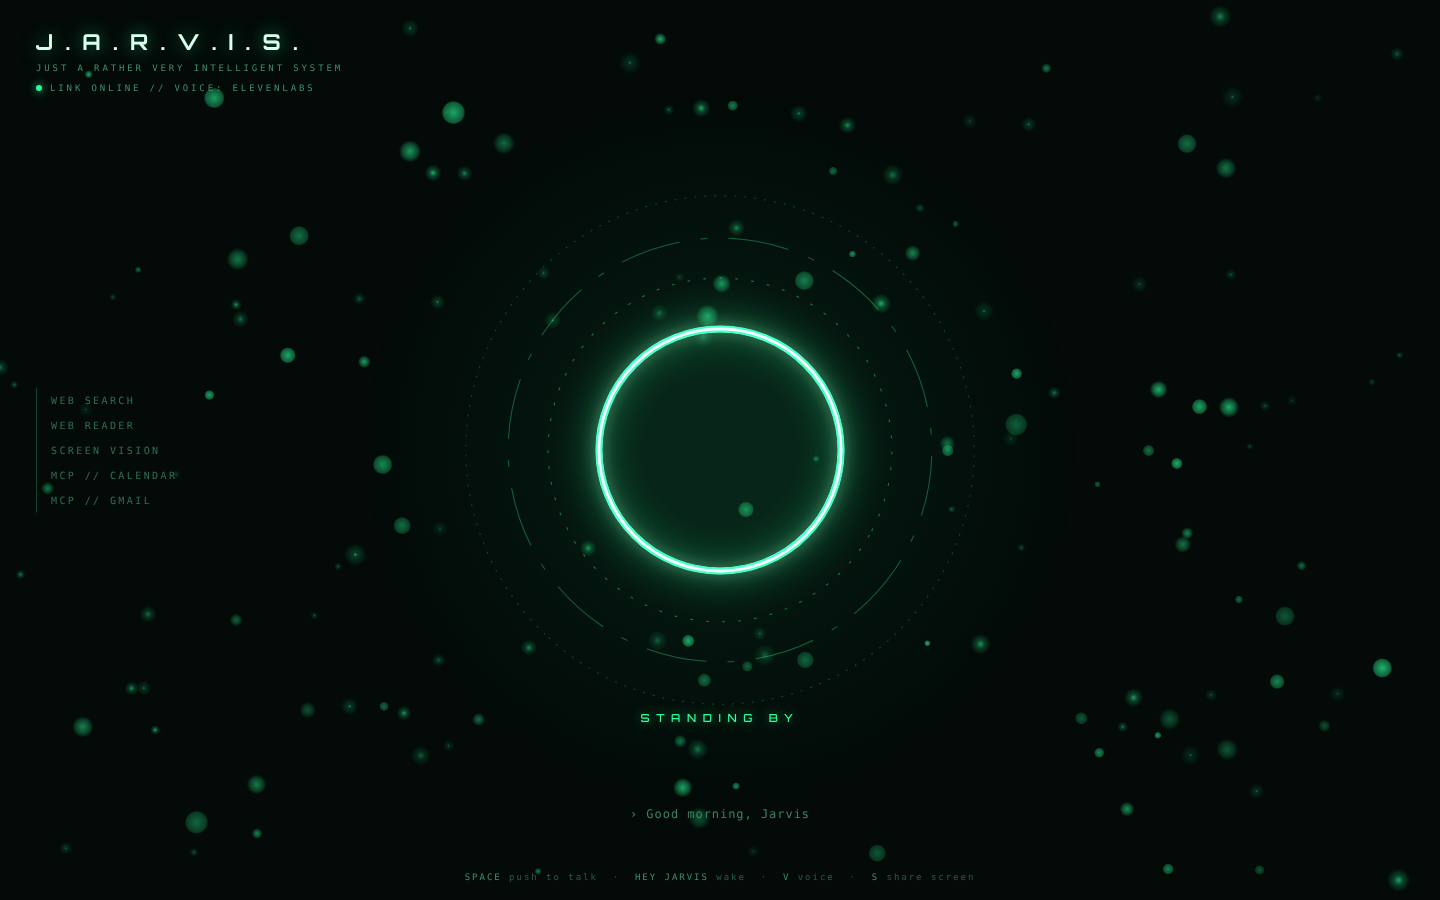
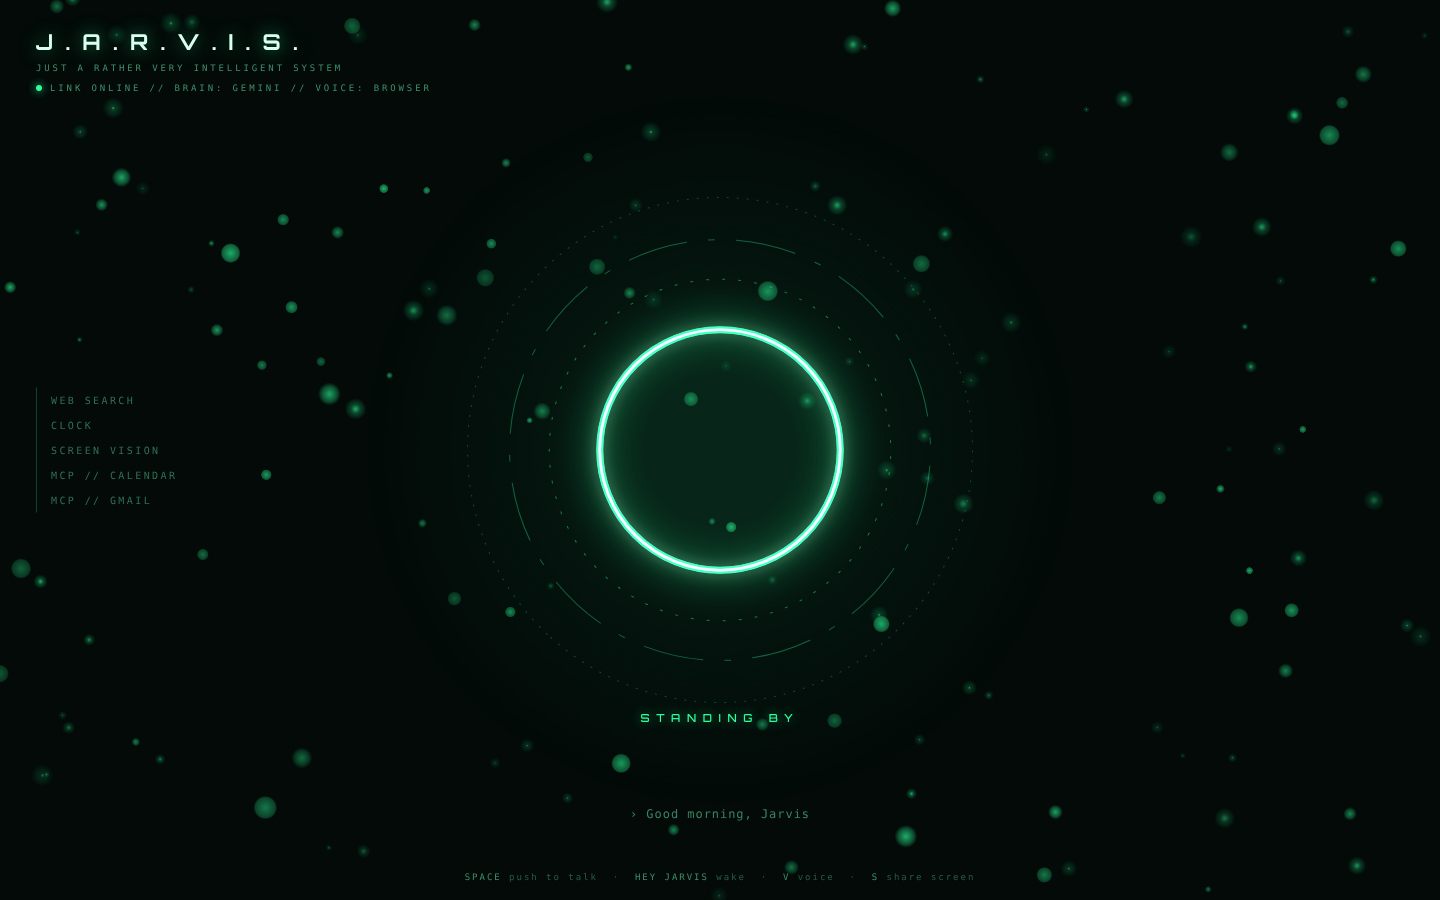
Document Gemini setup and provider switching; show active provider in HUD
Claude-Session: https://claude.ai/code/session_01FvGFuA4YvXKWYU1wFDX3Hn

diff --git a/src/hud.ts b/src/hud.ts
@@ -35,7 +35,8 @@ export function mountHud(): void {
   const render = () => {
     document.body.dataset.state = store.state;
     $('state').textContent = STATE_LABEL[store.state];
-    $('link').textContent = store.online ? (store.elevenlabs ? 'LINK ONLINE // VOICE: ELEVENLABS' : 'LINK ONLINE // VOICE: BROWSER') : 'LINK OFFLINE';
+    const brain = store.provider ? ` // BRAIN: ${store.provider.toUpperCase()}` : '';
+    $('link').textContent = store.online ? `LINK ONLINE${brain} // VOICE: ${store.elevenlabs ? 'ELEVENLABS' : 'BROWSER'}` : 'LINK OFFLINE';
     document.querySelector('.link')!.classList.toggle('on', store.online);
     $('notice').textContent = store.notice;
     $('q').textContent = store.question ? `› ${store.question}` : '';

diff --git a/src/main.ts b/src/main.ts
@@ -11,7 +11,7 @@ const demo = params.get('demo');
 
 if (demo) {
   const state = (['idle', 'listening', 'thinking', 'speaking'].includes(demo) ? demo : 'idle') as JState;
-  set({ state, online: true, tools: ['calendar', 'gmail'], elevenlabs: true });
+  set({ state, online: true, provider: 'gemini', tools: ['calendar', 'gmail'], elevenlabs: false });
   if (state === 'speaking') {
     // Fake an audio envelope so the ring pulses.
     setInterval(() => { (window as any).__level = 0.35 + 0.35 * Math.abs(Math.sin(Date.now() / 140)); }, 30);

diff --git a/src/controller.ts b/src/controller.ts
@@ -88,7 +88,7 @@ export class Controller {
   private onServer(m: ServerMsg): void {
     switch (m.type) {
       case 'hello':
-        set({ tools: m.tools, elevenlabs: this.tts.elevenlabs || m.elevenlabs });
+        set({ tools: m.tools, provider: m.provider ?? '', elevenlabs: this.tts.elevenlabs || m.elevenlabs });
         break;
       case 'text':
         set({ answer: store.answer + m.delta });

diff --git a/src/state.ts b/src/state.ts
@@ -21,6 +21,7 @@ export interface Store {
   activeTool: string;
   elevenlabs: boolean;
   online: boolean;
+  provider: string;
   screenShared: boolean;
   notice: string;
   calendar: CalendarPanelData | null;
@@ -35,6 +36,7 @@ export const store: Store = {
   activeTool: '',
   elevenlabs: false,
   online: false,
+  provider: '',
   screenShared: false,
   notice: '',
   calendar: null,

diff --git a/src/bridge.ts b/src/bridge.ts
@@ -1,7 +1,7 @@
 import type { CalendarPanelData } from './state';
 
 export type ServerMsg =
-  | { type: 'hello'; elevenlabs: boolean; tools: string[] }
+  | { type: 'hello'; elevenlabs: boolean; tools: string[]; provider?: string }
   | { type: 'text'; delta: string }
   | { type: 'panel'; panel: string; data: CalendarPanelData }
   | { type: 'tool'; name: string }

diff --git a/README.md b/README.md
@@ -2,14 +2,15 @@
 
 A personal voice assistant that runs in your browser: a dry British butler with a glowing HUD, wake word, calendar, web search and screen vision.
 
-- **Brain:** Claude via the [Claude Agent SDK](https://www.npmjs.com/package/@anthropic-ai/claude-agent-sdk), plus any MCP servers in your `~/.claude.json`
-- **Voice out:** ElevenLabs (falls back to your browser's built-in voices)
+- **Brain:** Google Gemini by default (works with a **free** `GEMINI_API_KEY`), or Claude via the Claude Agent SDK as an optional provider. Tools come from any MCP servers you configure
+- **Voice out:** your browser's built-in voices (free), or ElevenLabs if you add a key
 - **Voice in:** Web Speech API (use **Chrome or Edge**; Firefox has no speech recognition)
 - **Bridge:** a small Node server on `127.0.0.1` that keeps your keys off the web page
 
 ```
-browser (Vite, :5173) --WebSocket/HTTP--> bridge (127.0.0.1:8787) --> Claude Agent SDK --> MCP tools
-                                                         `--> ElevenLabs (key stays server-side)
+browser (Vite, :5173) --WebSocket/HTTP--> bridge (127.0.0.1:8787) --> LLM provider (Gemini | Claude)
+                                                         |--> MCP servers (bridge-side MCP client)
+                                                         `--> ElevenLabs (optional; keys stay server-side)
 ```
 
 ## 1. Install
@@ -18,7 +19,7 @@ Requires Node 20 or newer.
 
 ```bash
 npm install
-cp .env.example .env      # then fill it in
+cp .env.example .env      # then add GEMINI_API_KEY (see "Free setup with Gemini")
 npm run dev               # starts the bridge and the web app
 ```
 
@@ -28,11 +29,14 @@ Open <http://127.0.0.1:5173> in Chrome or Edge and allow the microphone.
 
 | Variable | Purpose |
 | --- | --- |
-| `ANTHROPIC_API_KEY` | Lets the Agent SDK call Claude |
+| `LLM_PROVIDER` | `gemini` (default) or `anthropic` |
+| `LLM_MODEL` | Optional model override. Default for Gemini: `gemini-3.8-flash` |
+| `GEMINI_API_KEY` | Required for `gemini`. Free key from <https://aistudio.google.com/apikey> |
+| `GEMINI_SEARCH_MODEL` | Optional. Model for the grounded `web_search` call. Default `gemini-2.5-flash` |
+| `ANTHROPIC_API_KEY` | Required only for `anthropic` |
 | `ELEVENLABS_API_KEY` | Optional. Without it Jarvis uses a browser voice |
 | `JARVIS_VOICE_ID` | Optional. Which ElevenLabs voice to use |
 | `BRIDGE_PORT` | Optional. Default `8787` |
-| `JARVIS_MODEL` | Optional. Override the Claude model |
 
 The bridge reads `.env` once at boot, so **restart it after editing**.
 
@@ -40,17 +44,47 @@ The bridge reads `.env` once at boot, so **restart it after editing**.
 
 | Say | What happens |
 | --- | --- |
-| "Hey Jarvis" (then your request) | Wake word. The ring switches to *listening*, then your words go to Claude |
+| "Hey Jarvis" (then your request) | Wake word. The ring switches to *listening*, then your words go to the model |
 | Hold **Space**, speak, release | Push-to-talk, no wake word needed |
 | "Good morning, Jarvis" | Morning briefing: weather, today's calendar and any tasks. Calendar events also open as a HUD panel |
-| "Search for AI news" | Web search, summarised in a couple of sentences |
-| "What's on my screen?" | Takes a frame of the window you shared and describes it. Press **S** once first to choose what to share |
+| "Search for AI news" | Google-grounded web search (`web_search`), summarised in a couple of sentences |
+| "What's on my screen?" | Sends a frame of the window you shared to the model's vision and describes it. Press **S** once first to choose what to share |
 | "What's happening in the world?" | Searches the headlines and gives you the top three |
 | Anything else | A helpful answer delivered with sarcastic-butler wit |
 
 Keys: **Space** push-to-talk, **V** cycle browser voices, **S** share/stop sharing screen, **Esc** interrupt.
 
 The ring shows the state: slow breathing (idle), rippling (listening), a sweeping arc with orbiting beads (thinking), and radial pulses that follow the audio (speaking).
+
+## 2b. Free setup with Gemini
+
+1. Go to <https://aistudio.google.com/apikey>, sign in with a Google account and create an API key. No credit card is needed.
+2. Put it in `.env`:
+
+   ```
+   LLM_PROVIDER=gemini
+   GEMINI_API_KEY=your-key
+   ```
+3. `npm install && npm run dev`, open <http://127.0.0.1:5173>. The browser voice is the free TTS default, so no other key is needed.
+
+What to know about the free tier (checked against ai.google.dev in October 2026, so re-check before relying on it):
+
+- **Limits.** Free keys are limited per project in requests per minute, tokens per minute and requests per day, and the limits differ by model. See your own limits at <https://aistudio.google.com/rate-limit>. When you hit one, the API answers HTTP 429. Jarvis retries up to three times with backoff, then says "I'm being rate-limited, sir. Give me a moment."
+- **Your data.** On the free tier, Google states that your prompts and responses may be used to improve its products. The paid tier says otherwise. Do not point a free key at anything confidential: calendar and email results travel to Google with every question.
+- **Web search.** Google Search grounding is not available on the free tier for Gemini 3.x models, but it is for `gemini-2.5-flash` (a daily request cap applies). So `web_search` runs as a separate grounded call to `GEMINI_SEARCH_MODEL` (default `gemini-2.5-flash`) while chat uses `gemini-3.8-flash`. If Google retires that model, set `GEMINI_SEARCH_MODEL` to another one.
+- **Model names change.** If `gemini-3.8-flash` stops working, set `LLM_MODEL` to a current Flash model from <https://ai.google.dev/gemini-api/docs/models>.
+
+## 2c. Switching providers
+
+| Want | Set in `.env` |
+| --- | --- |
+| Gemini (default, free) | `LLM_PROVIDER=gemini`, `GEMINI_API_KEY=...` |
+| Claude | `LLM_PROVIDER=anthropic`, `ANTHROPIC_API_KEY=...` (optionally `LLM_MODEL=...`) |
+| No key at all (canned replies, for UI work) | `LLM_PROVIDER=mock` |
+
+Restart the bridge after changing it. If the chosen provider's key is missing, the bridge refuses to start and tells you which variable to set. The header link line and the bridge log show which provider is active.
+
+Differences: with Gemini, the bridge itself connects to your MCP servers and runs the tool loop (at most 8 model-tool rounds per question). With Claude, the Claude Agent SDK runs its own tool loop with its own web search, and the bridge hands it your MCP servers. The Claude path needs the optional `@anthropic-ai/claude-agent-sdk` package, which `npm install` pulls in by default.
 
 ## 3. Choosing a voice
 
@@ -72,16 +106,16 @@ The page header shows `VOICE: ELEVENLABS` or `VOICE: BROWSER` so you can tell wh
 
 ## 4. Google Calendar and Gmail
 
-Jarvis uses whichever MCP servers are in `~/.claude.json`. To add Calendar and Gmail:
+Jarvis uses the MCP servers listed in `./jarvis.mcp.json` (gitignored). If that file has none, it falls back to `mcpServers` in `~/.claude.json`. Same format as Claude's config: `{ "mcpServers": { "name": { "command": "npx", "args": ["..."] } } }`. Local (stdio) servers and remote servers that take a static header token are supported; remote servers that need an interactive OAuth login are not. To add Calendar and Gmail:
 
 ```bash
 export GOOGLE_OAUTH_CREDENTIALS=/path/to/gcp-oauth.keys.json   # your Desktop-app OAuth client file
 npm run mcp:add                 # dry run, explains each step
-npm run mcp:add -- --write      # merge into ~/.claude.json (a backup is kept)
+npm run mcp:add -- --write      # merge into ./jarvis.mcp.json
 npx -y @gongrzhe/server-gmail-autoauth-mcp auth                # one-time browser consent, run locally
 ```
 
-Calendar asks you to consent the first time it is used. The script reads the credentials *path* from the environment and never writes secrets itself. Restart the bridge afterwards.
+Calendar asks you to consent the first time it is used. The script reads the credentials *path* from the environment and never writes secrets itself. Restart the bridge afterwards. The bridge logs only server names, never their config.
 
 ## 5. Make it start itself
 
@@ -156,13 +190,17 @@ If `npm` is installed through nvm, use its absolute path in `ExecStart`.
 
 ## 6. Troubleshooting
 
-**Windows: "spawn ... ENOENT" or the agent never answers.** Tools such as `npx` and the Claude CLI are `.cmd` shims on Windows, and Node can only start those through a shell. The bridge already spawns with `shell:true` on Windows. If you start your own commands, use `cmd /c npx ...` (which is what `npm run mcp:add` writes).
+**Windows: "spawn ... ENOENT" or an MCP server never connects.** Tools such as `npx` and the Claude CLI are `.cmd` shims on Windows, and Node can only start those through a shell. The Claude provider spawns the CLI with `shell:true` on Windows. For MCP servers use `cmd /c npx ...` in `jarvis.mcp.json` (which is what `npm run mcp:add` writes).
+
+**"JARVIS cannot start: ... GEMINI_API_KEY is not set".** Add the key to `.env` (or `LLM_PROVIDER=anthropic` with `ANTHROPIC_API_KEY`) and run `npm run dev` again.
+
+**Jarvis says "I can't seem to authenticate with my brain".** The API key was rejected. Re-copy it from AI Studio, with no quotes or spaces, and restart the bridge.
 
 **The mic does nothing.** Use Chrome or Edge on `http://127.0.0.1:5173` or `http://localhost:5173`, click the padlock and allow the microphone, then reload. Also check the OS-level mic permission for the browser, and that no other tab or app has the mic. A "Microphone blocked" notice on screen means the browser said no.
 
 **Wake word is flaky.** Browser speech recognition needs an internet connection and mishears sometimes. Push-to-talk (Space) always works. While Jarvis is speaking he stops listening, so you cannot talk over him; press Esc or Space to interrupt.
 
-**I edited `.env` or `~/.claude.json` and nothing changed.** The bridge reads both only at boot. Stop it (Ctrl+C) and run `npm run dev` again.
+**I edited `.env` or the MCP config and nothing changed.** The bridge reads `.env`, `jarvis.mcp.json` and `~/.claude.json` only at boot. Stop it (Ctrl+C) and run `npm run dev` again.
 
 **Voice says BROWSER but I set ElevenLabs keys.** Both `ELEVENLABS_API_KEY` and `JARVIS_VOICE_ID` must be set, and the bridge restarted. Check `http://127.0.0.1:8787/health`. If ElevenLabs errors mid-session, Jarvis falls back to the browser voice for that sentence.
 
@@ -173,10 +211,10 @@ If `npm` is installed through nvm, use its absolute path in `ExecStart`.
 ## Development
 
 ```bash
-npm test             # unit tests (MCP config, TTS fallback, HUD tags, wake word, ...)
+npm test             # unit tests, all keyless (mock provider). A live Gemini smoke test runs only if GEMINI_API_KEY is set
 npm run typecheck
 npm run smoke        # boots the bridge and hits /health
 npm run screenshots  # headless HUD screenshots into docs/screenshots/
 ```
 
-Security notes: the bridge refuses non-local `Host`/`Origin` headers, never logs `~/.claude.json`, and gives the agent only web search, web fetch and your MCP tools (no shell, no file access).
+Security notes: the bridge listens on `127.0.0.1` only, refuses non-local `Host`/`Origin` headers, keeps `GEMINI_API_KEY`, `ANTHROPIC_API_KEY` and `ELEVENLABS_API_KEY` server-side (the browser never sees them), never logs MCP config contents, and gives the model only web search, the clock and your MCP tools (no shell, no file access).
